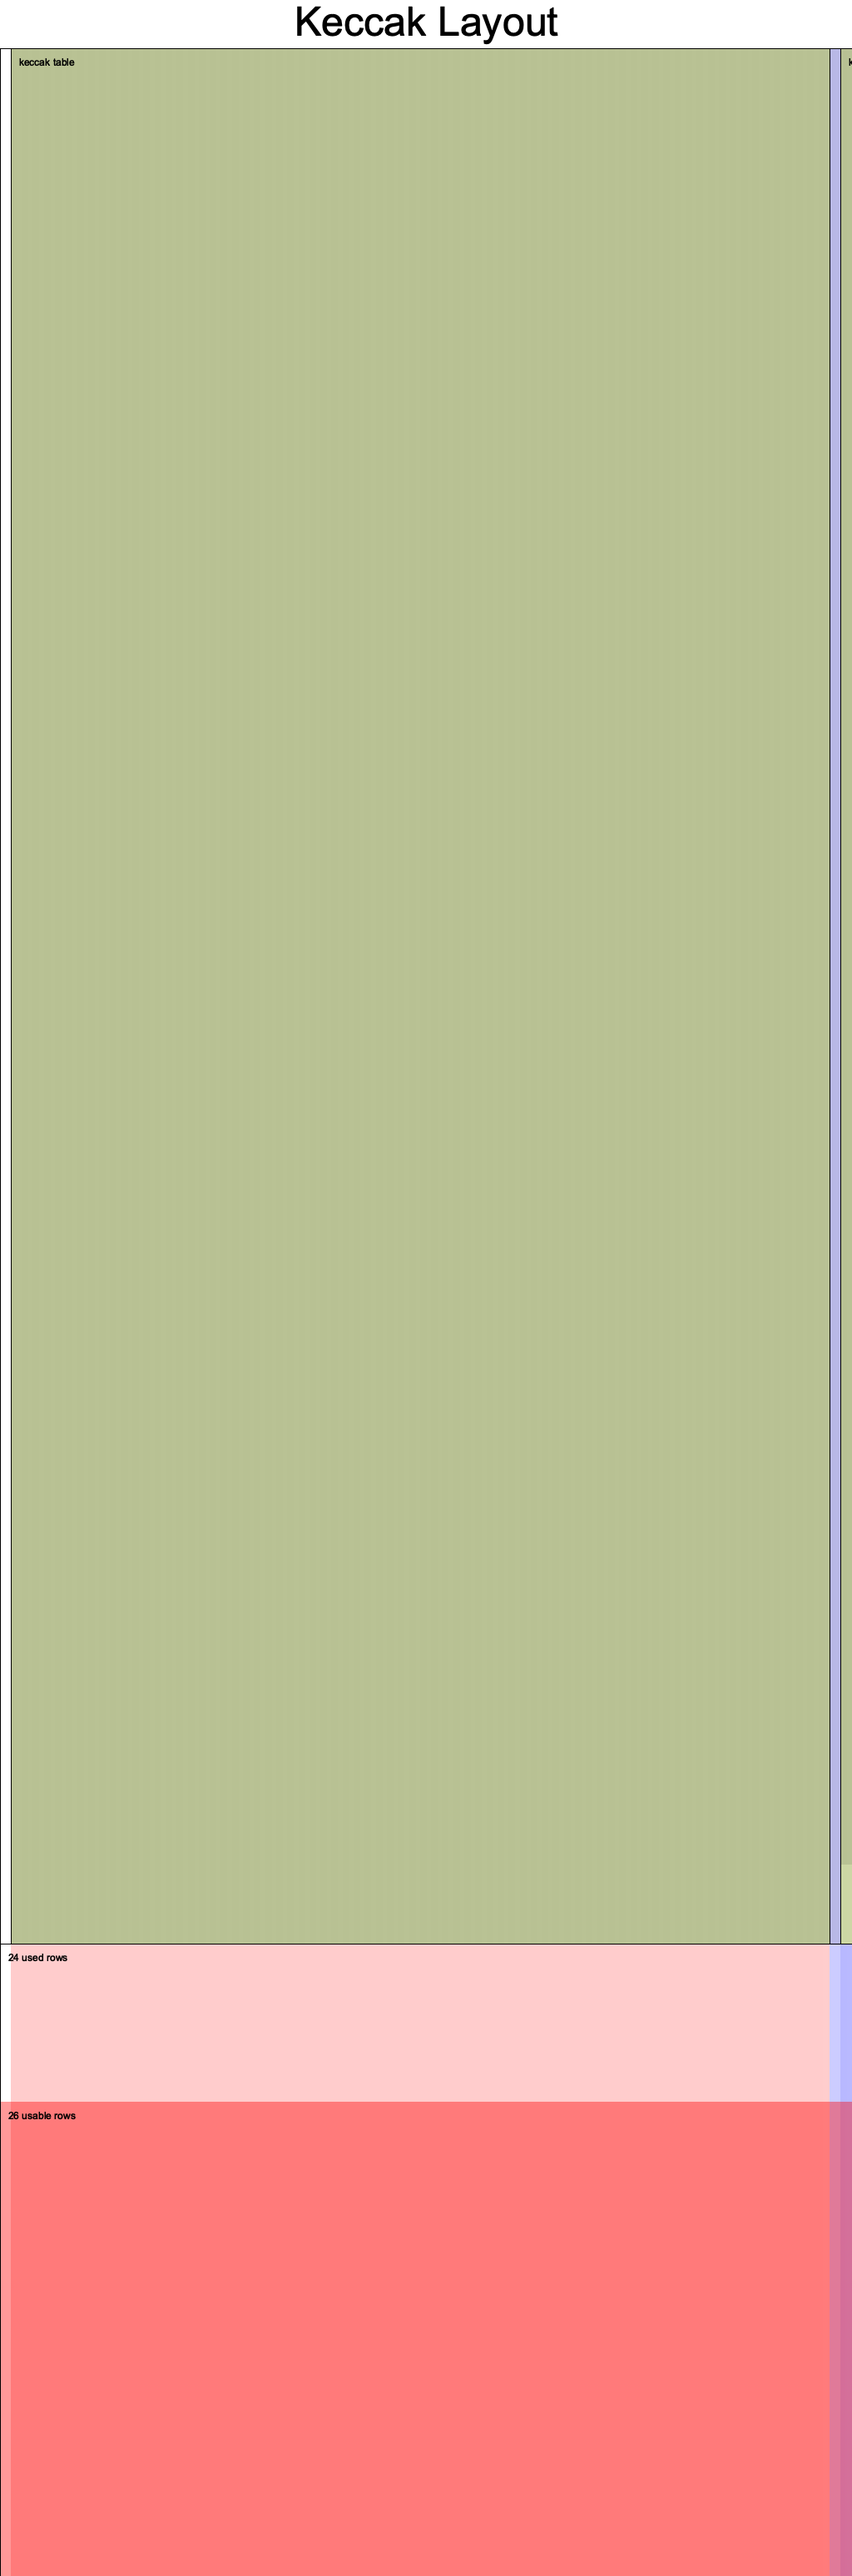
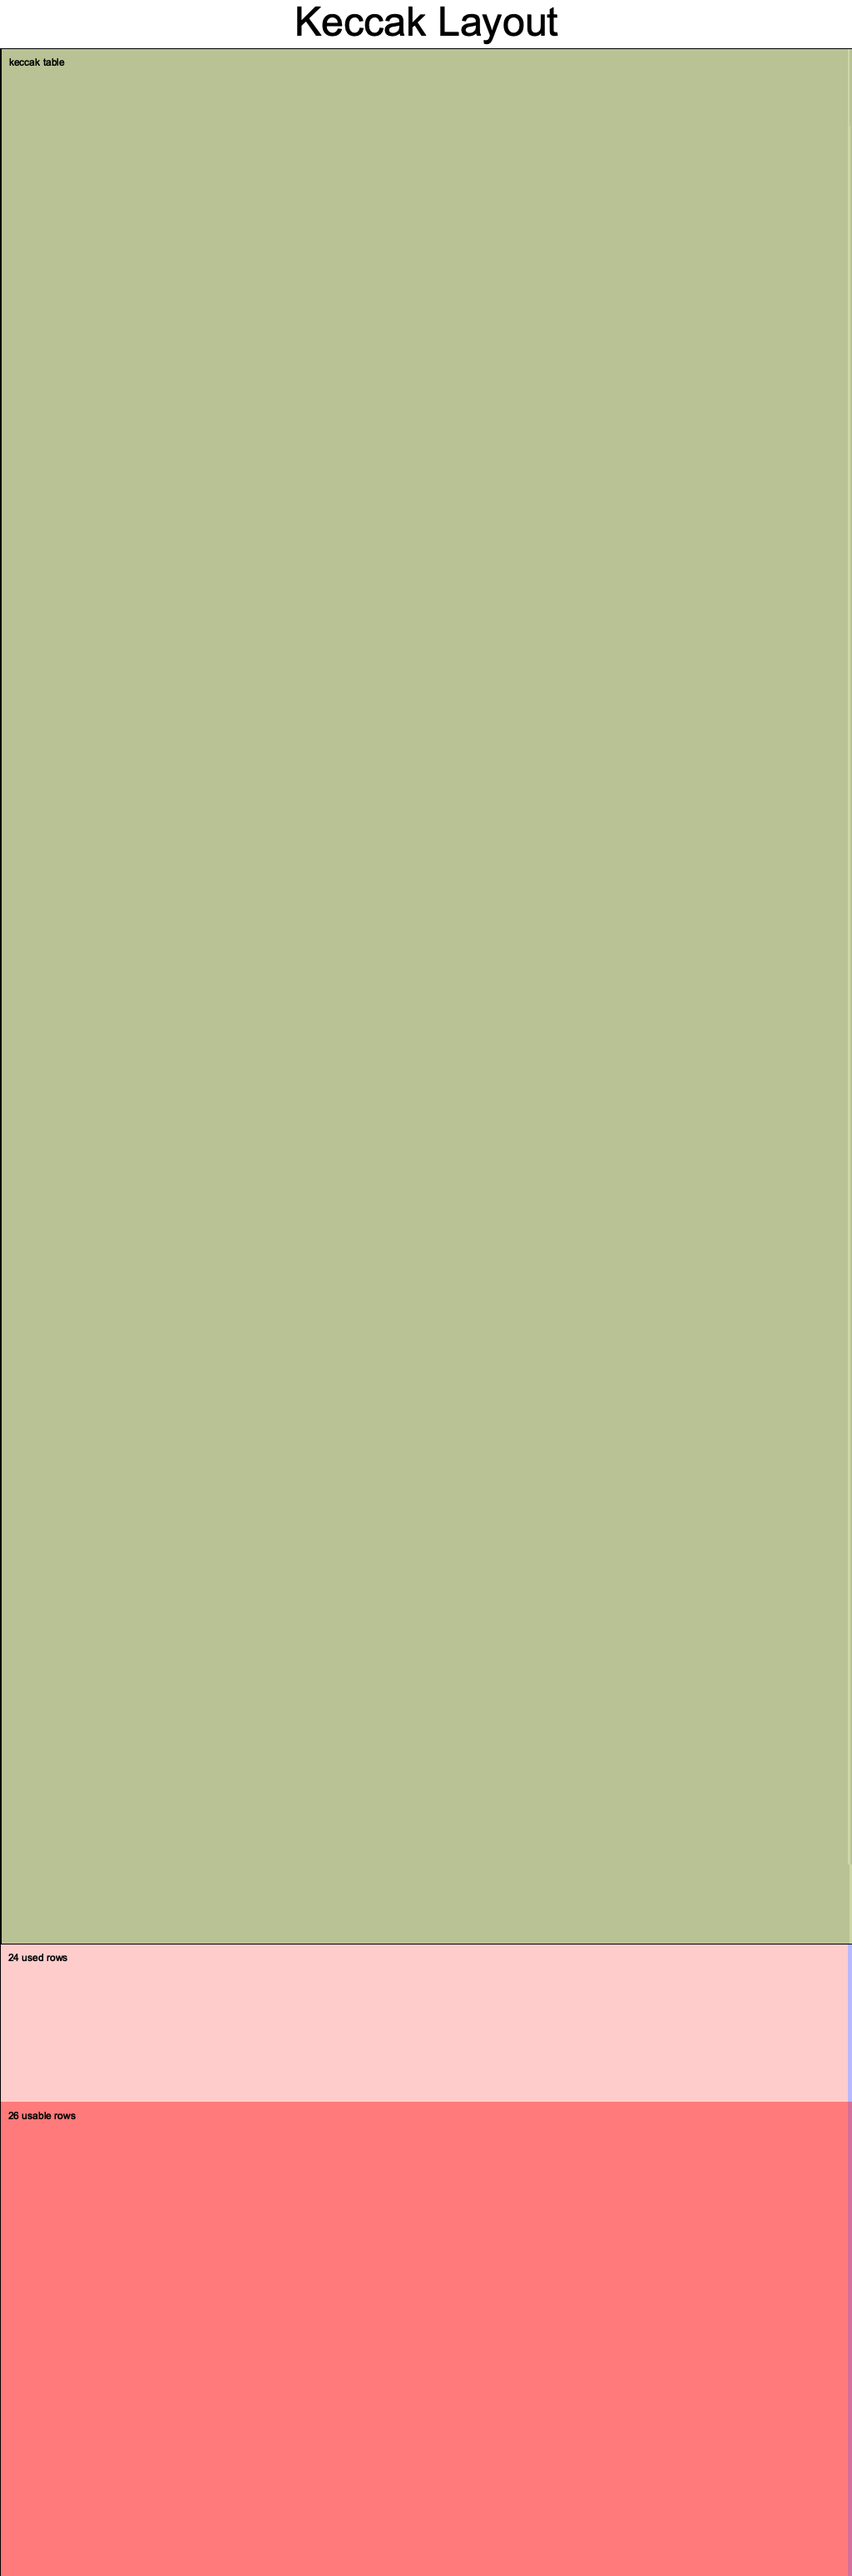
feat: add A, C and C'

Changed region(s): [[0.9688, 0.0, 1.0, 1.0], [0.0, 0.0, 0.0312, 1.0]]

diff --git a/src/lib.rs b/src/lib.rs
@@ -1,34 +1,45 @@
 mod columns;
+mod logic;
 
+use ff::{PrimeField, PrimeFieldBits};
 use halo2_proofs::{arithmetic::Field, circuit::*, plonk::*, poly::Rotation};
 use std::marker::PhantomData;
 
-use columns::{reg_a, reg_preimage, reg_step};
+use columns::{reg_a, reg_c, reg_c_prime, reg_preimage, reg_step};
+use logic::{xor, xor3_gen};
 // use columns::{NUM_COLUMNS};
 
 /// Number of rounds in a Keccak permutation.
 pub(crate) const NUM_ROUNDS: usize = 24;
+// pub(crate) const NUM_ROUNDS: usize = 2;
 
 /// Number of 64-bit elements in the Keccak permutation input.
 pub(crate) const NUM_INPUTS: usize = 25;
 
-const NUM_COLUMNS: usize = 74;
+const NUM_COLUMNS: usize = 714;
 
 #[derive(Debug, Clone)]
 struct KeccakConfig {
     pub cols: [Column<Advice>; NUM_COLUMNS],
-    pub selector: Selector,
+    pub selector_first: Selector,
+    pub selector_last: Selector,
+    pub selector_not_last: Selector,
     pub instance: Column<Instance>,
-    pub constant: Column<Fixed>,
+    // pub constant: Column<Fixed>,
 }
 
 #[derive(Debug, Clone)]
-struct KeccakChip<F: Field> {
+struct KeccakChip<F: PrimeFieldBits> {
     config: KeccakConfig,
     _marker: PhantomData<F>,
 }
 
-impl<F: Field> KeccakChip<F> {
+#[derive(Clone, Copy, Debug)]
+pub struct PubValue<V> {
+    pub inner: Option<V>,
+}
+
+impl<F: PrimeFieldBits> KeccakChip<F> {
     pub fn construct(config: KeccakConfig) -> Self {
         Self {
             config,
@@ -37,12 +48,17 @@ impl<F: Field> KeccakChip<F> {
     }
 
     pub fn configure(meta: &mut ConstraintSystem<F>) -> KeccakConfig {
-        let selector = meta.selector();
+        // Create columns
+
+        let selector_first = meta.selector();
+        let selector_last = meta.selector();
+        let selector_not_last = meta.selector();
+
         let instance = meta.instance_column();
-        let constant = meta.fixed_column();
+        // let constant = meta.fixed_column();
 
         meta.enable_equality(instance);
-        meta.enable_constant(constant);
+        // meta.enable_constant(constant);
 
         let cols: [Column<Advice>; NUM_COLUMNS] = (0..NUM_COLUMNS)
             .map(|_| meta.advice_column())
@@ -50,17 +66,27 @@ impl<F: Field> KeccakChip<F> {
             .try_into()
             .unwrap();
 
+        // Assign constraints
+
+        // First round flag
+        // TODO: Maybe use copy constraint instead of gate and selector
+        meta.create_gate("first_round_flag", |meta| {
+            let s_first = meta.query_selector(selector_first);
+            let first_round_flag = meta.query_advice(cols[reg_step(0)], Rotation::cur());
+            vec![s_first * (first_round_flag - Expression::Constant(F::ONE))]
+        });
+
         // Round flags
         for i in 0..NUM_ROUNDS {
             // To initialize the first round flag, we need to set it to 1
             meta.enable_equality(cols[reg_step(i)]);
 
             meta.create_gate("round_flags", |meta| {
-                let s = meta.query_selector(selector);
+                let s_not_last = meta.query_selector(selector_not_last);
                 let current_round_flag = meta.query_advice(cols[reg_step(i)], Rotation::cur());
                 let next_round_flag =
                     meta.query_advice(cols[reg_step((i + 1) % NUM_ROUNDS)], Rotation::next());
-                vec![s * (next_round_flag - current_round_flag)]
+                vec![s_not_last * (next_round_flag - current_round_flag)]
             });
         }
 
@@ -71,11 +97,27 @@ impl<F: Field> KeccakChip<F> {
                 meta.enable_equality(cols[reg_preimage(x, y)]);
 
                 meta.create_gate("preimage", |meta| {
-                    let s = meta.query_selector(selector);
+                    let s_not_last = meta.query_selector(selector_not_last);
                     let preimage = reg_preimage(x, y);
                     let diff = meta.query_advice(cols[preimage], Rotation::cur())
                         - meta.query_advice(cols[preimage], Rotation::next());
-                    vec![s * diff]
+                    vec![s_not_last * diff]
+                });
+            }
+        }
+
+        // C'[x, z] = xor(C[x, z], C[x - 1, z], C[x + 1, z - 1]).
+        for x in 0..5 {
+            for z in 0..64 {
+                meta.create_gate("c_prime", |meta| {
+                    let s_not_last = meta.query_selector(selector_not_last);
+                    let xor = xor3_gen(
+                        meta.query_advice(cols[reg_c(x, z)], Rotation::cur()),
+                        meta.query_advice(cols[reg_c((x + 4) % 5, z)], Rotation::cur()),
+                        meta.query_advice(cols[reg_c((x + 1) % 5, (z + 63) % 64)], Rotation::cur()),
+                    );
+                    let c_prime = meta.query_advice(cols[reg_c_prime(x, z)], Rotation::cur());
+                    vec![s_not_last * (c_prime - xor)]
                 });
             }
         }
@@ -88,128 +130,162 @@ impl<F: Field> KeccakChip<F> {
 
                 // TODO: Change cur column to A''
                 meta.create_gate("a", |meta| {
-                    let s = meta.query_selector(selector);
+                    let s_not_last = meta.query_selector(selector_not_last);
                     let a = reg_a(x, y);
                     let diff = meta.query_advice(cols[a], Rotation::cur())
                         - meta.query_advice(cols[a], Rotation::next());
-                    vec![s * diff]
+                    vec![s_not_last * diff]
                 });
             }
         }
 
         KeccakConfig {
             cols,
-            selector,
+            selector_first,
+            selector_last,
+            selector_not_last,
             instance,
-            constant,
+            // constant,
         }
     }
 
-    pub fn assign(&self, mut layouter: impl Layouter<F>) -> Result<AssignedCell<F, F>, Error> {
+    pub fn assign(&self, mut layouter: impl Layouter<F>) -> Result<(), Error> {
         layouter.assign_region(
             || "keccak table",
             |mut region| {
-                // Assign first row
+                // Store values in local row
+                let mut row: [F; NUM_COLUMNS] = [F::ZERO; NUM_COLUMNS];
 
-                // Assign first round flag
-                let mut round_cells = Vec::with_capacity(NUM_ROUNDS);
-
-                round_cells.push(region.assign_advice_from_constant(
-                    || "1",
-                    self.config.cols[reg_step(0)],
-                    0,
-                    F::ONE,
-                )?);
-
-                for col in 1..NUM_ROUNDS {
-                    round_cells.push(region.assign_advice_from_constant(
-                        || "0",
-                        self.config.cols[reg_step(col)],
-                        0,
-                        F::ZERO,
-                    )?);
-                }
+                // Enable selectors
+                self.config.selector_first.enable(&mut region, 0)?;
+                self.config
+                    .selector_last
+                    .enable(&mut region, NUM_ROUNDS - 1)?;
 
                 // Populate the preimage for first row.
-                let mut preimage_cells = Vec::with_capacity(5 * 5);
-
                 for x in 0..5 {
                     for y in 0..5 {
                         let preimage = reg_preimage(x, y);
-                        preimage_cells.push(region.assign_advice_from_instance(
+                        let cell = region.assign_advice_from_instance(
                             || "preimage",
                             self.config.instance,
                             y * 5 + x,
                             self.config.cols[preimage],
                             0,
-                        )?);
+                        )?;
+                        let value: PubValue<F> =
+                            unsafe { std::mem::transmute_copy(&cell.value().copied()) };
+                        if let Some(v) = value.inner {
+                            row[preimage] = v;
+                        }
                     }
                 }
 
                 // Populate A for first row.
-                let mut a_cells = Vec::with_capacity(5 * 5);
-
                 for x in 0..5 {
                     for y in 0..5 {
                         let a = reg_a(x, y);
-                        a_cells.push(region.assign_advice_from_instance(
+                        region.assign_advice_from_instance(
                             || "a",
                             self.config.instance,
                             y * 5 + x,
                             self.config.cols[a],
                             0,
-                        )?);
+                        )?;
+                        row[a] = row[reg_preimage(x, y)];
                     }
                 }
 
                 // Assign remaining rows
-                for round in 0..NUM_ROUNDS - 1 {
-                    self.config.selector.enable(&mut region, round)?;
-
-                    // Assign round flags
-                    let mut new_round_cells = Vec::with_capacity(NUM_ROUNDS);
-                    for col in 0..NUM_ROUNDS {
-                        new_round_cells.push(region.assign_advice(
-                            || "advice",
-                            self.config.cols[reg_step(col)],
-                            round + 1,
-                            || {
-                                round_cells[(col + NUM_ROUNDS - 1) % NUM_ROUNDS]
-                                    .value()
-                                    .copied()
-                            },
-                        )?);
+                for round in 0..NUM_ROUNDS {
+                    if round < NUM_ROUNDS - 1 {
+                        // Enable selector
+                        self.config.selector_not_last.enable(&mut region, round)?;
                     }
-                    round_cells = new_round_cells;
 
-                    // Assign preimage
-                    for x in 0..5 {
-                        for y in 0..5 {
-                            let preimage = reg_preimage(x, y);
-                            region.assign_advice(
-                                || "preimage",
-                                self.config.cols[preimage],
-                                round + 1,
-                                || preimage_cells[x * 5 + y].value().copied(),
-                            )?;
+                    if round > 0 {
+                        // Assign preimage
+                        for x in 0..5 {
+                            for y in 0..5 {
+                                let preimage = reg_preimage(x, y);
+                                region.assign_advice(
+                                    || "preimage",
+                                    self.config.cols[preimage],
+                                    round,
+                                    || Value::known(row[preimage]),
+                                )?;
+                            }
+                        }
+
+                        // Assign A
+                        // TODO: Change cur column to A''
+                        for x in 0..5 {
+                            for y in 0..5 {
+                                let a = reg_a(x, y);
+                                region.assign_advice(
+                                    || "a",
+                                    self.config.cols[a],
+                                    round,
+                                    || Value::known(row[a]),
+                                )?;
+                                row[a] = row[a];
+                            }
                         }
                     }
 
-                    // Assign A
+                    // Assign round flags
+                    for i in 0..NUM_ROUNDS {
+                        let val = if i == round { F::ONE } else { F::ZERO };
+                        region.assign_advice(
+                            || "advice",
+                            self.config.cols[reg_step(i)],
+                            round,
+                            || Value::known(val),
+                        )?;
+                        row[reg_step(i)] = val;
+                    }
+
+                    // Populate C[x] = xor(A[x, 0], A[x, 1], A[x, 2], A[x, 3], A[x, 4]).
                     for x in 0..5 {
-                        for y in 0..5 {
-                            let a = reg_a(x, y);
+                        for z in 0..64 {
+                            let xor = xor(&(0..5)
+                                .map(|i| {
+                                    let ai = row[reg_a(x, i)];
+                                    let bits = ai.to_le_bits();
+
+                                    F::from(bits[z] as u64)
+                                })
+                                .collect::<Vec<_>>());
                             region.assign_advice(
-                                || "a",
-                                self.config.cols[a],
-                                round + 1,
-                                || a_cells[x * 5 + y].value().copied(),
+                                || "c",
+                                self.config.cols[reg_c(x, z)],
+                                round,
+                                || Value::known(xor),
                             )?;
+                            row[reg_c(x, z)] = xor;
+                        }
+                    }
+
+                    // Populate C'[x, z] = xor(C[x, z], C[x - 1, z], C[x + 1, z - 1]).
+                    for x in 0..5 {
+                        for z in 0..64 {
+                            let xor = xor(&[
+                                row[reg_c(x, z)],
+                                row[reg_c((x + 4) % 5, z)],
+                                row[reg_c((x + 1) % 5, (z + 63) % 64)],
+                            ]);
+                            region.assign_advice(
+                                || "c_prime",
+                                self.config.cols[reg_c_prime(x, z)],
+                                round,
+                                || Value::known(xor),
+                            )?;
+                            row[reg_c_prime(x, z)] = xor;
                         }
                     }
                 }
 
-                Ok(round_cells[NUM_ROUNDS - 1].clone())
+                Ok(())
             },
         )
     }
@@ -227,7 +303,7 @@ impl<F: Field> KeccakChip<F> {
 #[derive(Default)]
 struct KeccakCircuit<F>(PhantomData<F>);
 
-impl<F: Field> Circuit<F> for KeccakCircuit<F> {
+impl<F: PrimeFieldBits> Circuit<F> for KeccakCircuit<F> {
     type Config = KeccakConfig;
     type FloorPlanner = SimpleFloorPlanner;
 

diff --git a/src/logic.rs b/src/logic.rs
@@ -1,0 +1,23 @@
+use ff::PrimeField;
+use halo2_proofs::plonk::Expression;
+
+pub(crate) fn xor<F: PrimeField>(xs: &[F]) -> F {
+    xs.into_iter().fold(F::ZERO, |acc, &x| {
+        debug_assert!(x == F::ZERO || x == F::ONE);
+        x + acc - x * acc * F::from(2)
+    })
+}
+
+/// Computes the arithmetic generalization of `xor(x, y)`, i.e. `x + y - 2 x y`.
+pub(crate) fn xor_gen<F: PrimeField>(x: Expression<F>, y: Expression<F>) -> Expression<F> {
+    x.clone() + y.clone() - x * y * Expression::Constant(F::from(2))
+}
+
+/// Computes the arithmetic generalization of `xor3(x, y, z)`.
+pub(crate) fn xor3_gen<F: PrimeField>(
+    x: Expression<F>,
+    y: Expression<F>,
+    z: Expression<F>,
+) -> Expression<F> {
+    xor_gen(x, xor_gen(y, z))
+}
